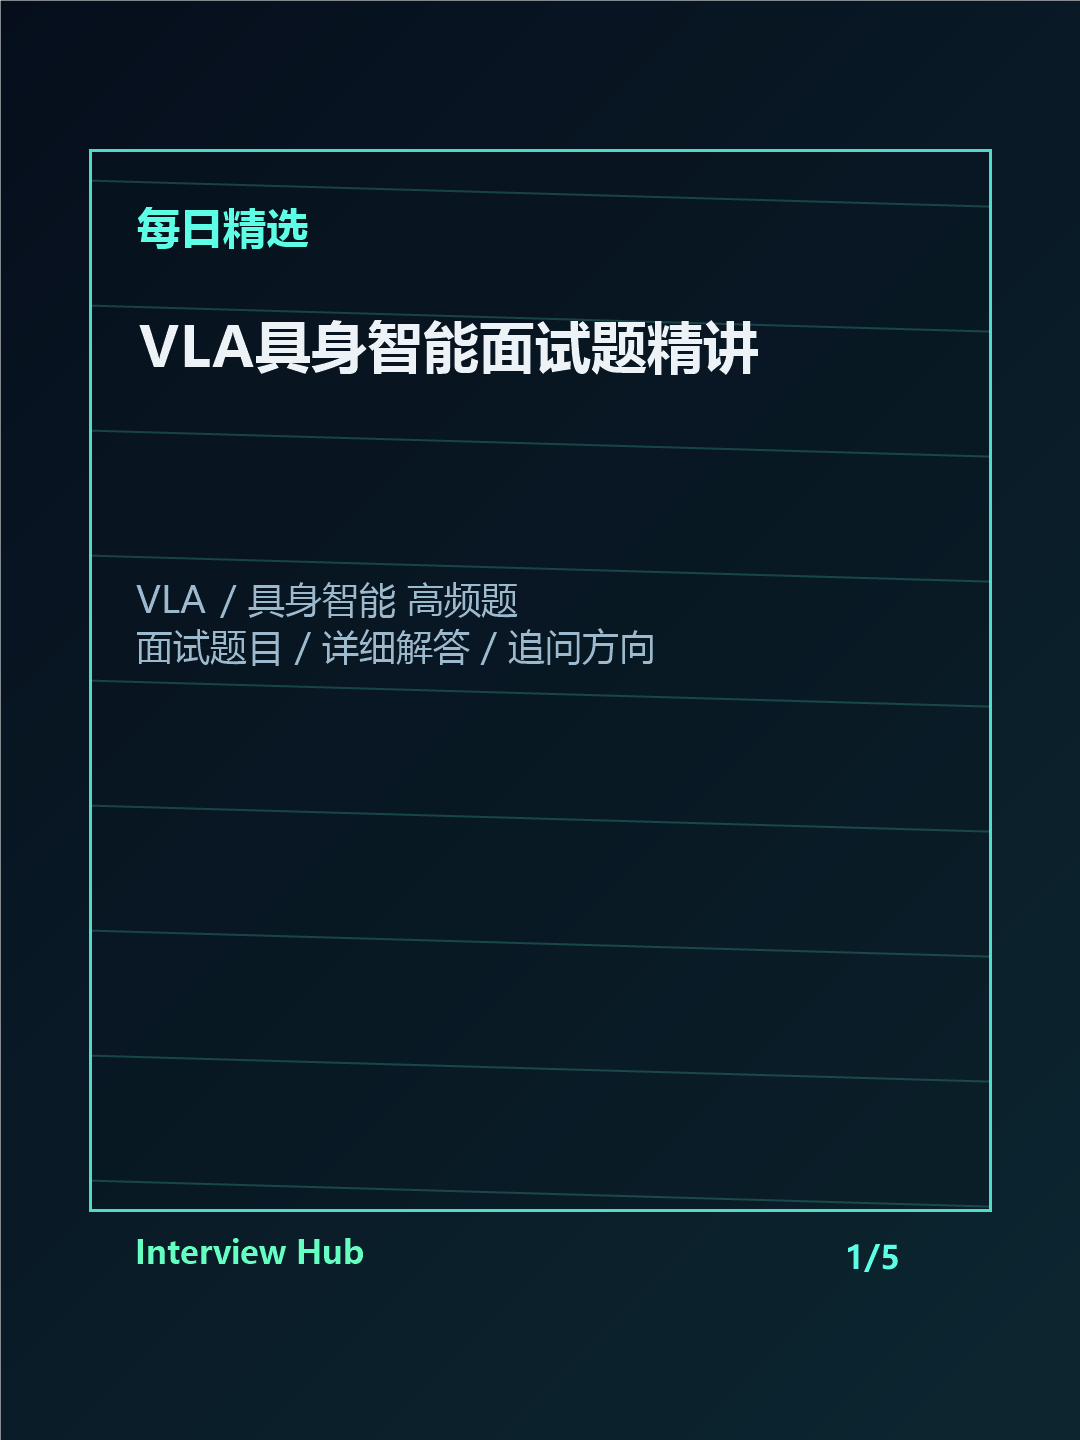
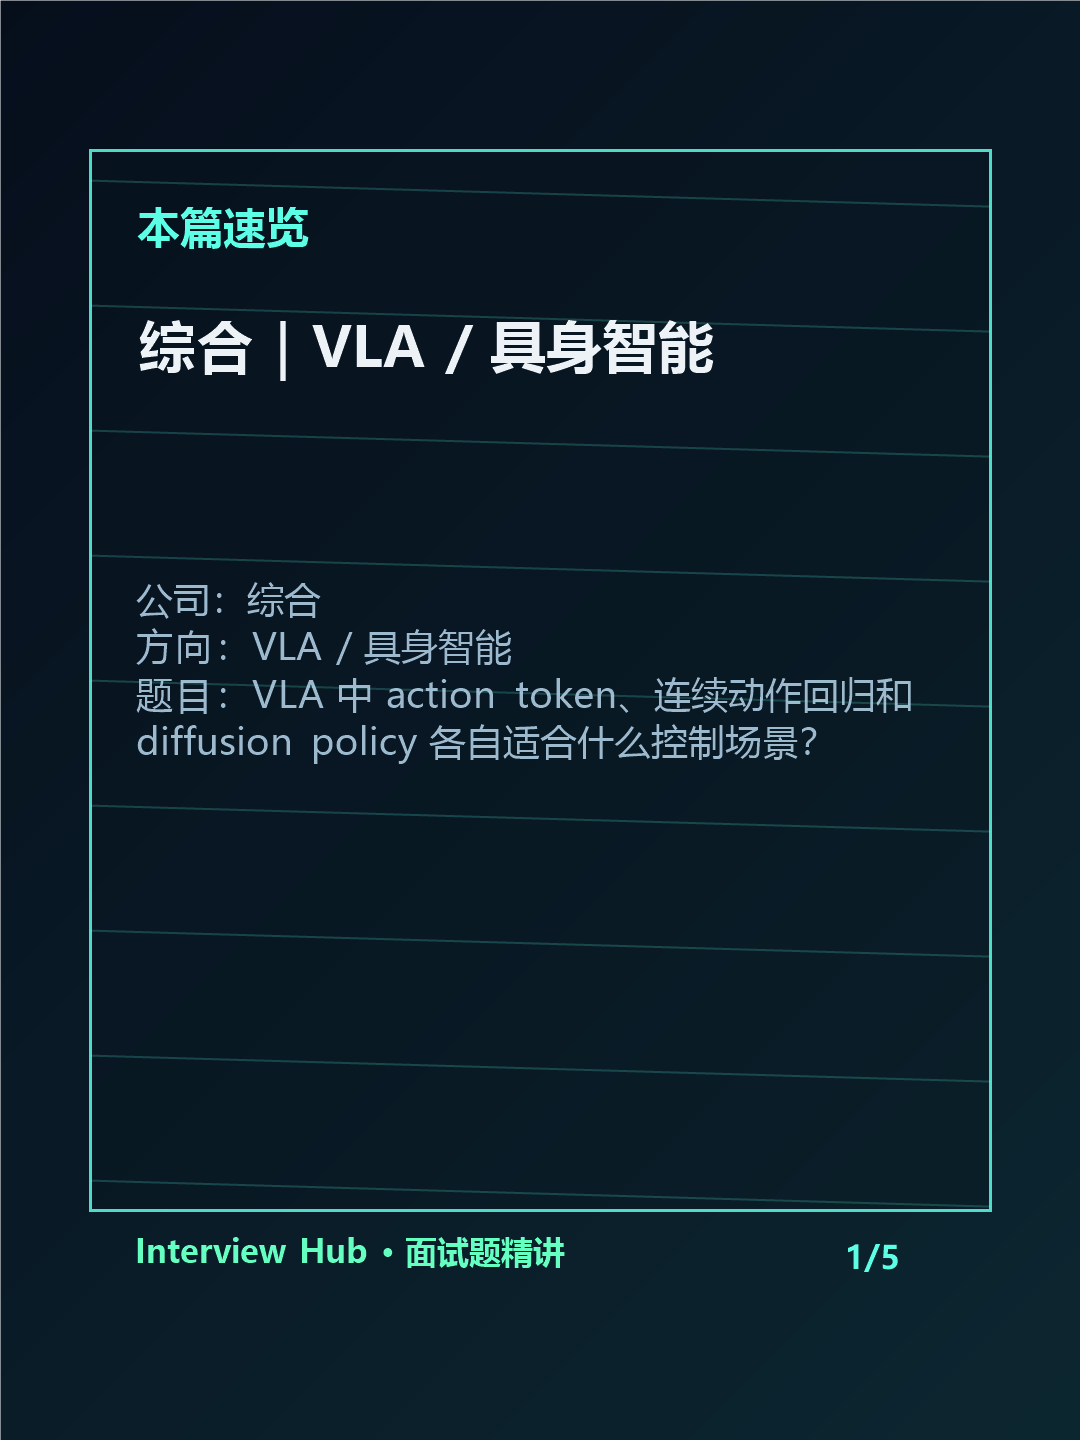
Improve Xiaohongshu covers and duplicate guard

diff --git a/public/publish-queue.js b/public/publish-queue.js
@@ -1,5 +1,5 @@
 const queueRoot = document.querySelector("#publishQueueRoot");
-const staticAssetVersion = "20260607-xhs-image-cards";
+const staticAssetVersion = "20260613-xhs-cover-dedupe";
 
 function staticUrl(path) {
   const separator = path.includes("?") ? "&" : "?";
@@ -31,8 +31,13 @@ function renderRecord(record) {
   const header = document.createElement("div");
   header.className = "publish-queue-header";
   const status = document.createElement("span");
-  status.className = `status-pill ${record.status === "published" ? "published" : "manual"}`;
-  status.textContent = record.status === "published" ? "已发布/审核中" : "待手机确认";
+  const statusClass = record.status === "published" ? "published" : "manual";
+  status.className = `status-pill ${statusClass}`;
+  status.textContent = record.status === "published"
+    ? "已发布/审核中"
+    : record.status === "skipped_duplicate"
+      ? "已跳过重复"
+      : "待手机确认";
   const time = document.createElement("span");
   time.textContent = record.updatedAt ? new Date(record.updatedAt).toLocaleString("zh-CN") : "";
   header.append(status, time);
